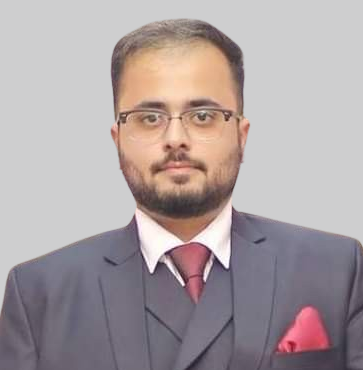
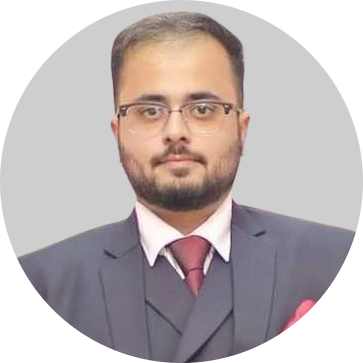
about completed

diff --git a/src/app/about/page.js b/src/app/about/page.js
@@ -1,5 +1,8 @@
-import { Box, Text } from "@chakra-ui/react";
+import { Box, Text, Grid } from "@chakra-ui/react";
 import Image from "next/image";
+import LanguagesCard from "../../components/language-card/language-card";
+import { SKILLS } from "../../constants/constants";
+
 export default function About() {
   const basePath = process.env.NODE_ENV === "production" ? "/portfolio" : "";
   return (
@@ -15,16 +18,18 @@ export default function About() {
         display="flex"
         alignItems="center"
         flexDirection="column"
-        width="60%"
+        width={{ base: "80%", md: "60%" }}
         gap="20px"
-        paddingTop="400px"
+        height="100%"
+        paddingTop="50px"
         paddingBottom="100px"
       >
         <Box
           border="solid 10px white"
           borderRadius="50%"
-          overflow="hidden"
+          overflow="visible"
           boxShadow="0px 4px 8px rgba(0, 0, 0, 0.2);"
+          // height="180px"
           min-height="180px"
         >
           <Image
@@ -32,15 +37,10 @@ export default function About() {
             width={250}
             height={100}
             src={`${basePath}/images/about.png`}
-            alt="Next.js Logo"
+            alt="Hassan Imtiaz"
           />
         </Box>
-        <Box
-        //display="flex"
-        //alignItems="center"
-        //flexDirection="column"
-        // width="50%"
-        >
+        <Box>
           <Text
             fontFamily="Anton"
             color="white"
@@ -58,6 +58,26 @@ export default function About() {
             various technology stacks.
           </Text>
         </Box>
+        <Box>
+          <Text
+            fontFamily="Anton"
+            color="white"
+            fontSize={{ base: "16px", md: "20px", lg: "20px" }}
+            textAlign={"justify"}
+          >
+            Skills
+          </Text>
+        </Box>
+        <Grid
+          templateColumns={{ base: "repeat(2, 1fr)", md: "repeat(4, 1fr)" }}
+          gap="25px"
+          justifyContent="center"
+          paddingBottom="40px"
+        >
+          {SKILLS.map((item) => (
+            <LanguagesCard key={item.id} item={item} />
+          ))}
+        </Grid>
       </Box>
     </Box>
   );

diff --git a/src/constants/constants.js b/src/constants/constants.js
@@ -17,10 +17,7 @@ export const NAV_ITEMS = [
   },
 ];
 
-export const Introduction_Name = [
-  "Hello 👋, I'm Hassan Imtiaz",
-  3500
-];
+export const Introduction_Name = ["Hello 👋, I'm Hassan Imtiaz", 3500];
 
 export const Introduction = [
   "Front-End Developer 🖥",
@@ -31,4 +28,21 @@ export const Introduction = [
   3500,
   "Software Engineer 💻",
   3500,
+];
+
+export const SKILLS = [
+  { skill: "React JS", url: "/react.png" },
+  { skill: "Vue JS", url: "/vue.png" },
+  { skill: "React Native", url: "/react.png" },
+  { skill: "Node JS", url: "/node.png" },
+  { skill: "Express JS", url: "/express.png" },
+  { skill: "JavaScript", url: "/javascript.png" },
+  { skill: "TypeScript", url: "/typescript.png" },
+  { skill: "MongoDB", url: "/mongodb.png" },
+  { skill: "SQL", url: "/sql.png" },
+  { skill: "Firebase", url: "/firebase.png" },
+  { skill: "Rest API", url: "/rest.png" },
+  { skill: "GraphQL", url: "/graphql.png" },
+  { skill: "Python", url: "/python.png" },
+  { skill: "C Sharp", url: "/csharp.png" },
 ];

diff --git a/src/components/language-card/language-card.js b/src/components/language-card/language-card.js
@@ -1,0 +1,39 @@
+"use client";
+import { Box, Text } from "@chakra-ui/react";
+import Image from "next/image";
+
+export default function LanguagesCard({item}) {
+  const basePath = process.env.NODE_ENV === "production" ? "/portfolio" : "";
+  return (
+    <Box
+      display="flex"
+      flexDirection="column"
+      alignItems="center"
+      background="white"
+      width="120px"
+      height="130px"
+      borderRadius="10px"
+      padding="10px"
+      boxShadow="0px 4px 8px rgba(0, 0, 0, 0.2);"
+    >
+      <Box width="80px" height="80px">
+        <Image
+          // className={styles.logo}
+          width={600}
+          height={100}
+          src={`${basePath}/languages${item.url}`}
+          alt={`${"react"} Logo`}
+        />
+      </Box>
+      <Box>
+        <Text
+          fontFamily="Anton"
+          color="Black"
+          fontSize={{ base: "16px", md: "18px", lg: "18px" }}
+        >
+          {item.skill}
+        </Text>
+      </Box>
+    </Box>
+  );
+}
